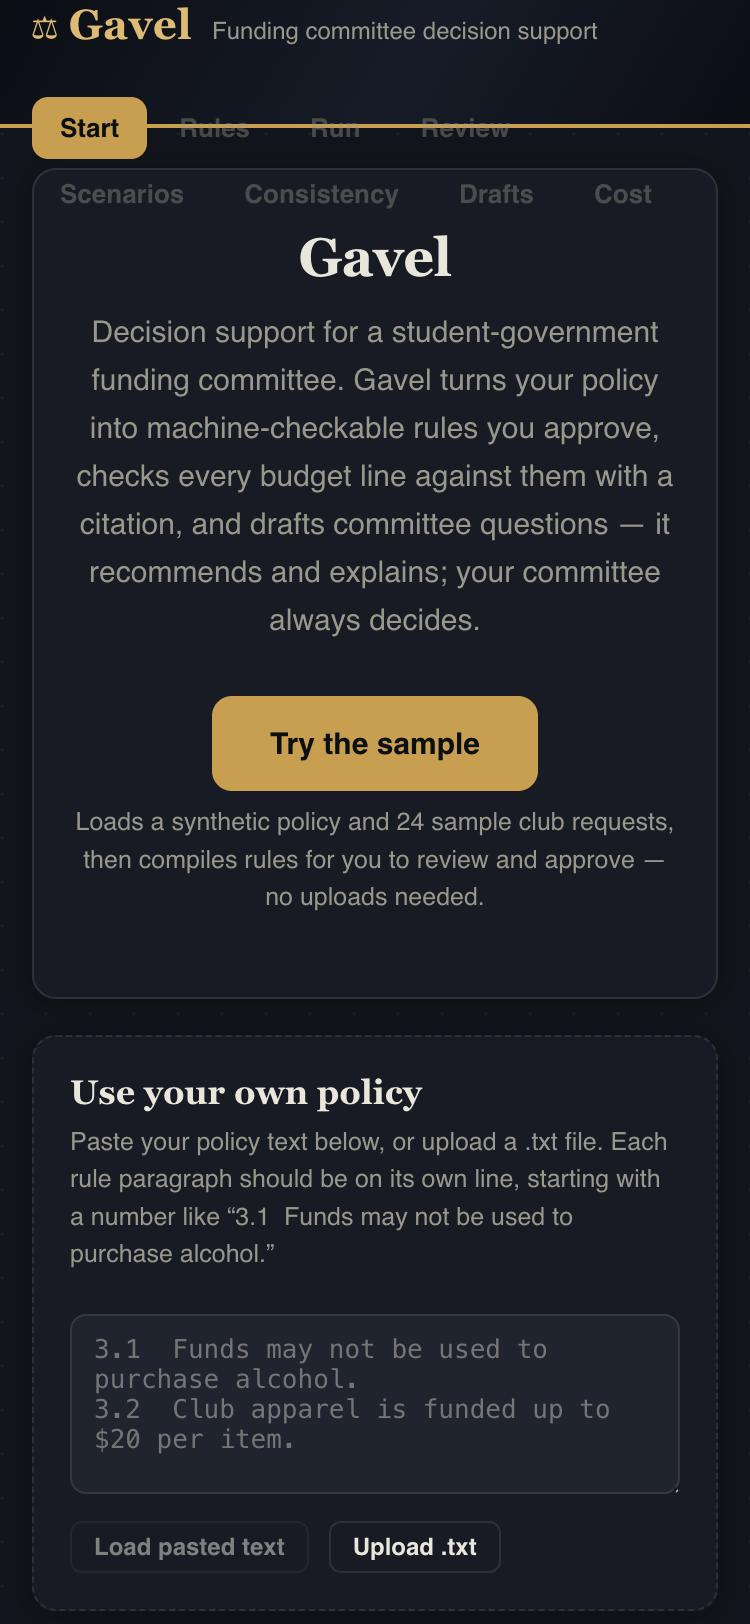
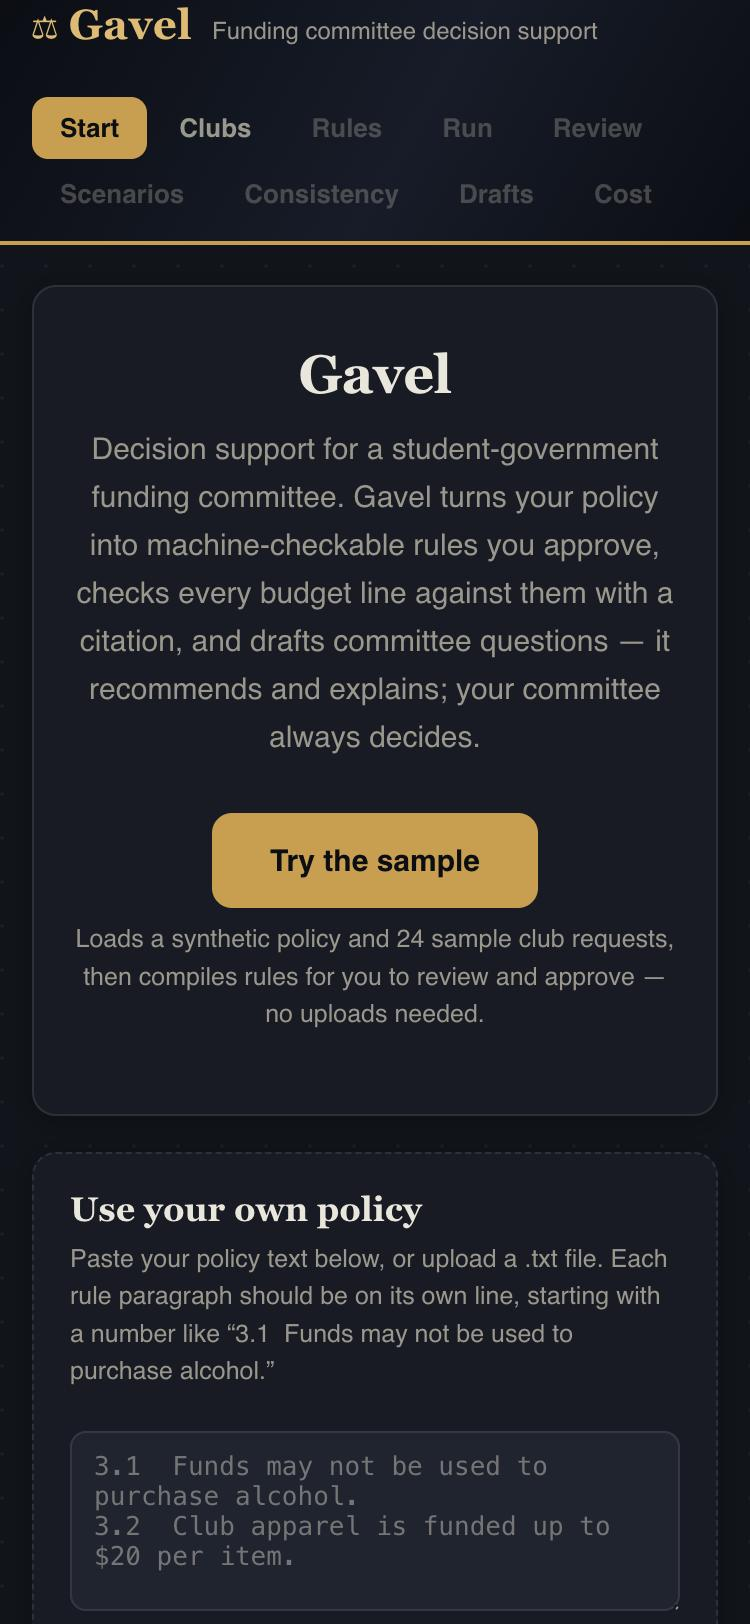
Fix three real look-and-feel bugs found in a full visual audit
- Topbar used a fixed height (64px) that didn't grow when the nav wrapped
  to two rows on narrow viewports, so the overflow visually bled into the
  content below it (clearly visible in the committed mobile screenshot,
  now replaced with a clean one). Changed to min-height so it sizes to
  its wrapped content.
- Checkboxes used the browser default blue instead of the app's gold
  accent, clashing with every other themed control (sliders already had
  this). Added a global accent-color rule.
- The "Download verdicts CSV" link rendered with a stray underline since
  .btn never reset text-decoration for <a> elements styled as buttons.

Found by walking every screen (including mobile width) rather than
trusting the existing screenshots. No functional changes; 58/58 tests
passing.

diff --git a/frontend/dist/assets/index-zJa-8TJD.css b/frontend/dist/assets/index-zJa-8TJD.css
@@ -1,0 +1,1 @@
+:root{--bg:#11141b;--surface:#171b24;--elevated:#1f2430;--hairline:#e9e6db1a;--text:#e9e6db;--muted:#9a978c;--navy:#0b0e14;--accent:#cf9d3f;--accent-strong:#e4b969;--accent-wash:#cf9d3f24;--allowed:#4caf6b;--allowed-wash:#4caf6b24;--reduced:#d99a3d;--reduced-wash:#d99a3d24;--denied:#d9534f;--denied-wash:#d9534f24;--needs-docs:#5b9bd5;--needs-docs-wash:#5b9bd524;--running:#5b9bd5;--running-wash:#5b9bd524;--error:#e06a6a;--error-wash:#e06a6a24;--radius:12px;--font-serif:Georgia, Cambria, "Times New Roman", Times, serif;--font-sans:-apple-system, "Segoe UI", Roboto, Helvetica, Arial, sans-serif;--font-mono:"SF Mono", ui-monospace, Menlo, Consolas, monospace}*{box-sizing:border-box}html,body,#root{height:100%}body{background:var(--bg);color:var(--text);font-family:var(--font-sans);-webkit-font-smoothing:antialiased;background-image:radial-gradient(circle at 1px 1px,#e9e6db0b 1px,#0000 0);background-size:22px 22px;margin:0}button,input,select,textarea{font-family:inherit}button{cursor:pointer}a{color:var(--accent)}input[type=checkbox],input[type=radio]{accent-color:var(--accent)}button:focus-visible,input:focus-visible,select:focus-visible,textarea:focus-visible,[tabindex]:focus-visible{outline:2px solid var(--accent-strong);outline-offset:2px}::-webkit-scrollbar{width:9px;height:9px}::-webkit-scrollbar-thumb{background:#e9e6db24;border-radius:999px}::-webkit-scrollbar-track{background:0 0}.tabular{font-variant-numeric:tabular-nums}.app{flex-direction:column;min-height:100%;display:flex}.topbar{z-index:30;background:linear-gradient(120deg, var(--navy) 0%, #161c29 55%, var(--navy) 100%);border-bottom:2px solid var(--accent);flex-wrap:wrap;justify-content:space-between;align-items:center;gap:16px;min-height:64px;padding:10px 1.75rem;display:flex;position:sticky;top:0}.brand{align-items:baseline;gap:10px;display:flex}.brand .mark{font-family:var(--font-serif);color:var(--accent-strong);letter-spacing:.01em;font-size:21px;font-weight:700}.brand .tagline{color:var(--muted);font-size:12px}.nav-tabs{flex-wrap:wrap;gap:2px;padding:8px 0;display:flex}.nav-tab{color:var(--muted);white-space:nowrap;background:0 0;border:1px solid #0000;border-radius:8px;padding:7px 13px;font-size:13px;font-weight:600;transition:all .15s ease-out}.nav-tab:hover{color:var(--text);background:#e9e6db0d}.nav-tab.active{color:var(--navy);background:var(--accent)}.nav-tab:disabled{opacity:.4;cursor:not-allowed}.nav-tab:disabled:hover{color:var(--muted);background:0 0}.main{flex:1;width:100%;max-width:1320px;margin:0 auto;padding:1.75rem 1.75rem 4rem}h1,h2,h3{font-family:var(--font-serif);color:var(--text);margin:0}h1{letter-spacing:-.01em;font-size:36px;font-weight:700}h2{font-size:24px;font-weight:700}h3{font-size:17px;font-weight:700}p{line-height:1.6}.lede{color:var(--muted);max-width:620px;font-size:15px;line-height:1.6}.hint{color:var(--muted);margin-top:6px;font-size:12.5px;line-height:1.5}.btn{border:1px solid var(--hairline);background:var(--surface);color:var(--text);border-radius:8px;justify-content:center;align-items:center;gap:8px;padding:9px 18px;font-size:13.5px;font-weight:600;text-decoration:none;transition:all .15s ease-out;display:inline-flex}.btn:hover{border-color:var(--accent);color:var(--accent-strong)}.btn:disabled{opacity:.5;cursor:not-allowed}.btn:disabled:hover{border-color:var(--hairline);color:var(--text)}.btn-primary{background:var(--accent);border-color:var(--accent);color:var(--navy)}.btn-primary:hover{filter:brightness(1.08);color:var(--navy);border-color:var(--accent)}.btn-danger{border-color:var(--error);color:var(--error);background:0 0}.btn-danger:hover{background:var(--error-wash);color:var(--error);border-color:var(--error)}.btn-lg{border-radius:10px;padding:14px 28px;font-size:15px}.btn-sm{border-radius:6px;padding:5px 11px;font-size:12px}.panel{background:var(--surface);border:1px solid var(--hairline);border-radius:var(--radius);padding:20px 22px;box-shadow:0 2px 14px #00000040}.panel-title{text-transform:uppercase;letter-spacing:.06em;color:var(--muted);margin:0 0 14px;font-size:11px;font-weight:700}.grid{gap:18px;display:grid}.grid-2{grid-template-columns:repeat(2,minmax(0,1fr))}.grid-3{grid-template-columns:repeat(3,minmax(0,1fr))}.stack{flex-direction:column;gap:18px;display:flex}.row{flex-wrap:wrap;align-items:center;gap:10px;display:flex}.row-between{flex-wrap:wrap;justify-content:space-between;align-items:center;gap:10px;display:flex}@media (width<=860px){.grid-2,.grid-3{grid-template-columns:1fr}}.state-box{min-height:160px;color:var(--muted);text-align:center;flex-direction:column;justify-content:center;align-items:center;gap:10px;padding:1.5rem;font-size:14px;display:flex}.state-box .spinner{border:2.5px solid var(--hairline);border-top-color:var(--accent);border-radius:50%;width:22px;height:22px;animation:.8s linear infinite spin}@keyframes spin{to{transform:rotate(360deg)}}.error-banner{background:var(--error-wash);color:var(--error);border:1px solid var(--error);border-radius:10px;padding:12px 16px;font-size:13.5px;line-height:1.5}.injection-banner{background:var(--denied-wash);border:1px solid var(--denied);color:#f3b8b6;border-radius:10px;flex-direction:column;gap:6px;padding:14px 18px;font-size:13.5px;line-height:1.6;display:flex}.injection-banner .title{color:var(--denied);font-size:14px;font-weight:700}.injection-banner code{font-family:var(--font-mono);background:#00000040;border-radius:4px;padding:1px 5px;font-size:12px}.hero-panel{text-align:center;padding:2.75rem}.hero-panel h1{margin-bottom:10px}.hero-panel .lede{margin:0 auto 26px}.upload-card{border:1px dashed var(--hairline);border-radius:var(--radius);text-align:left;padding:18px}.upload-card h3{margin-bottom:6px}.upload-card textarea,.upload-card input[type=file]{background:var(--elevated);border:1px solid var(--hairline);width:100%;color:var(--text);border-radius:8px;margin-top:8px;padding:9px 11px;font-size:13px}.upload-card textarea{resize:vertical;min-height:90px;font-family:var(--font-mono)}.rule-card{background:var(--surface);border:1px solid var(--hairline);border-radius:var(--radius);flex-direction:column;gap:10px;padding:16px 18px;display:flex}.rule-card.rejected{opacity:.55}.rule-head{flex-wrap:wrap;justify-content:space-between;align-items:center;gap:10px;display:flex}.rule-type{font-family:var(--font-mono);color:var(--accent-strong);background:var(--accent-wash);border-radius:999px;padding:2px 9px;font-size:11.5px}.badge{letter-spacing:.04em;text-transform:uppercase;white-space:nowrap;border-radius:999px;padding:3px 9px;font-size:10.5px;font-weight:700}.badge.verified{color:var(--allowed);background:var(--allowed-wash)}.badge.unverified{color:var(--error);background:var(--error-wash)}.badge.status-approved{color:var(--allowed);background:var(--allowed-wash)}.badge.status-proposed{color:var(--reduced);background:var(--reduced-wash)}.badge.status-rejected{color:var(--muted);background:#9a978c24}.quote-block{background:var(--elevated);border-left:3px solid var(--accent);color:var(--text);border-radius:6px;padding:10px 14px;font-size:13.5px;font-style:italic;line-height:1.55}.decoy-card{background:var(--elevated);border:1px dashed var(--hairline);border-radius:var(--radius);opacity:.85;padding:14px 16px}.decoy-card .why{color:var(--muted);margin-top:6px;font-size:12.5px}.nameplates{grid-template-columns:repeat(auto-fit,minmax(140px,1fr));gap:10px;display:grid}.nameplate{background:var(--surface);border:1px solid var(--hairline);border-radius:var(--radius);flex-direction:column;gap:8px;padding:13px 14px;display:flex}.nameplate.working{border-color:var(--accent)}.nameplate-name{font-size:13px;font-weight:700}.nameplate-role{color:var(--muted);font-size:10.5px}.nameplate-status{align-items:center;gap:6px;min-height:16px;font-size:11.5px;display:flex}.nameplate.idle .nameplate-status{color:var(--muted);opacity:.6}.nameplate.working .nameplate-status{color:var(--accent-strong);font-style:italic}.nameplate.done .nameplate-status{color:var(--allowed)}.pulse-dot{background:var(--accent);border-radius:50%;width:6px;height:6px;animation:1.4s ease-in-out infinite pulse}@keyframes pulse{0%,to{opacity:.35;transform:scale(.85)}50%{opacity:1;transform:scale(1.1)}}.progress-bar{background:var(--elevated);border-radius:999px;height:8px;overflow:hidden}.progress-bar-fill{background:linear-gradient(90deg, var(--accent), var(--accent-strong));height:100%;transition:width .4s ease-out}.feed{max-height:420px;font-family:var(--font-mono);flex-direction:column;font-size:12px;display:flex;overflow-y:auto}.feed-row{border-bottom:1px solid var(--hairline);grid-template-columns:150px 1fr;gap:10px;padding:8px 0;display:grid}.feed-row:last-child{border-bottom:none}.feed-event{color:var(--accent-strong);font-weight:600}.feed-time{color:var(--muted);font-size:10.5px}.feed-detail{color:var(--muted);white-space:pre-wrap;word-break:break-word}.chip{white-space:nowrap;border-radius:999px;padding:3px 10px;font-size:11px;font-weight:700;display:inline-block}.chip.allowed{color:var(--allowed);background:var(--allowed-wash)}.chip.reduced{color:var(--reduced);background:var(--reduced-wash)}.chip.denied{color:var(--denied);background:var(--denied-wash)}.chip.needs_docs{color:var(--needs-docs);background:var(--needs-docs-wash)}.chip.flag{color:var(--error);background:var(--error-wash);margin-left:6px}.table-wrap{overflow-x:auto}table.review-table{border-collapse:collapse;width:100%;font-size:13px}.review-table th{text-align:left;color:var(--muted);text-transform:uppercase;letter-spacing:.04em;border-bottom:1px solid var(--hairline);padding:8px 10px;font-size:11px}.review-table td{border-bottom:1px solid var(--hairline);vertical-align:middle;padding:9px 10px}.review-table tr.clickable{cursor:pointer;transition:background .1s}.review-table tr.clickable:hover{background:var(--elevated)}.filters{flex-wrap:wrap;align-items:center;gap:10px;margin-bottom:14px;display:flex}.filters select,.filters input[type=search]{background:var(--elevated);border:1px solid var(--hairline);color:var(--text);border-radius:8px;padding:7px 11px;font-size:13px}.side-panel-overlay{z-index:50;background:#00000080;justify-content:flex-end;display:flex;position:fixed;inset:0}.side-panel{background:var(--surface);border-left:1px solid var(--hairline);flex-direction:column;gap:16px;width:min(460px,100%);height:100%;padding:24px;display:flex;overflow-y:auto}.side-panel-close{align-self:flex-end}.fact-grid{grid-template-columns:repeat(2,1fr);gap:8px 16px;font-size:13px;display:grid}.fact-grid dt{color:var(--muted);text-transform:uppercase;font-size:11px}.fact-grid dd{color:var(--text);margin:0;font-weight:600}.slider-row{flex-direction:column;gap:6px;display:flex}.slider-row label{color:var(--muted);justify-content:space-between;font-size:12.5px;display:flex}.slider-row input[type=range]{width:100%;accent-color:var(--accent)}.bar-chart{flex-direction:column;gap:6px;max-height:480px;display:flex;overflow-y:auto}.bar-chart-row{grid-template-columns:140px 1fr 70px;align-items:center;gap:10px;font-size:12px;display:grid}.bar-chart-label{color:var(--muted);white-space:nowrap;text-overflow:ellipsis;overflow:hidden}.bar-track{background:var(--elevated);border-radius:4px;height:16px;position:relative;overflow:hidden}.bar-fill-allowed{background:#9a978c40;border-radius:4px;position:absolute;inset:0}.bar-fill-allocated{background:var(--accent);border-radius:4px;position:absolute;top:0;bottom:0;left:0}.bar-chart-amount{text-align:right;font-variant-numeric:tabular-nums;color:var(--text)}.consistency-stat{font-family:var(--font-serif);color:var(--accent-strong);font-size:40px;font-weight:700}.consistency-stat-label{color:var(--muted);font-size:12px}.draft-card{background:var(--elevated);border:1px solid var(--hairline);border-radius:10px;padding:16px 18px}.draft-label{letter-spacing:.06em;text-transform:uppercase;color:var(--reduced);background:var(--reduced-wash);border-radius:999px;padding:2px 9px;font-size:10.5px;font-weight:700}.draft-label.approved{color:var(--allowed);background:var(--allowed-wash)}.draft-question{border-top:1px dashed var(--hairline);margin-top:10px;padding-top:10px;font-size:13.5px;line-height:1.55}.draft-memo{white-space:pre-wrap;margin-top:10px;font-size:13.5px;line-height:1.65}.cost-figure{font-family:var(--font-serif);color:var(--accent-strong);font-size:30px;font-weight:700}.cost-label{color:var(--muted);text-transform:uppercase;letter-spacing:.04em;font-size:11px}@media (width<=640px){.topbar{padding:0 1rem}.main{padding:1.25rem 1rem 3rem}.hero-panel{padding:1.75rem 1.25rem}h1{font-size:27px}.fact-grid{grid-template-columns:1fr}.bar-chart-row{grid-template-columns:90px 1fr 56px}}

diff --git a/frontend/src/index.css b/frontend/src/index.css
@@ -44,6 +44,7 @@ body {
 button, input, select, textarea { font-family: inherit; }
 button { cursor: pointer; }
 a { color: var(--accent); }
+input[type="checkbox"], input[type="radio"] { accent-color: var(--accent); }
 
 button:focus-visible,
 input:focus-visible,
@@ -72,8 +73,8 @@ textarea:focus-visible,
   align-items: center;
   justify-content: space-between;
   gap: 16px;
-  padding: 0 1.75rem;
-  height: 64px;
+  padding: 10px 1.75rem;
+  min-height: 64px;
   background: linear-gradient(120deg, var(--navy) 0%, #161c29 55%, var(--navy) 100%);
   border-bottom: 2px solid var(--accent);
   flex-wrap: wrap;
@@ -129,6 +130,7 @@ p { line-height: 1.6; }
   font-weight: 600;
   padding: 9px 18px;
   border-radius: 8px;
+  text-decoration: none;
   transition: all 0.15s ease-out;
 }
 

diff --git a/frontend/dist/index.html b/frontend/dist/index.html
@@ -5,8 +5,8 @@
     <link rel="icon" type="image/svg+xml" href="/favicon.svg" />
     <meta name="viewport" content="width=device-width, initial-scale=1.0" />
     <title>Gavel — Funding Committee Decision Support</title>
-    <script type="module" crossorigin src="/assets/index-CDg3aGzZ.js"></script>
-    <link rel="stylesheet" crossorigin href="/assets/index-KYZFfkW9.css">
+    <script type="module" crossorigin src="/assets/index-CZc80KSf.js"></script>
+    <link rel="stylesheet" crossorigin href="/assets/index-zJa-8TJD.css">
   </head>
   <body>
     <div id="root"></div>
